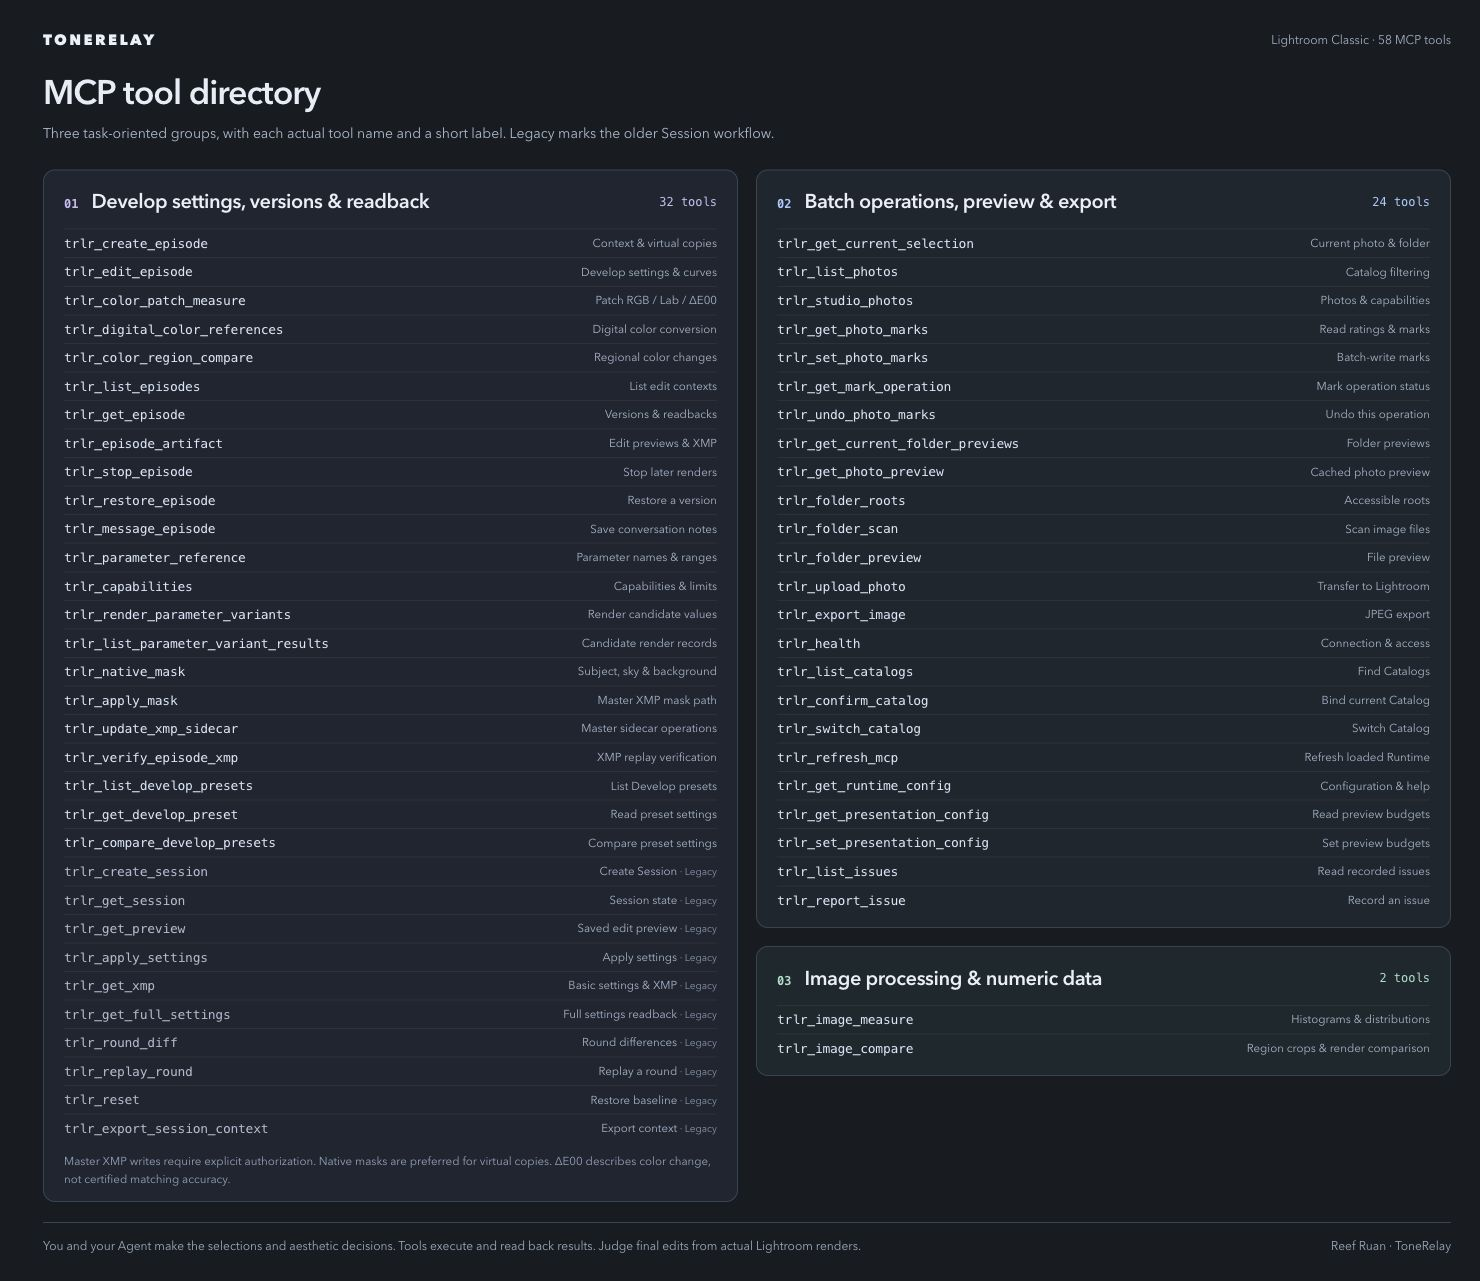
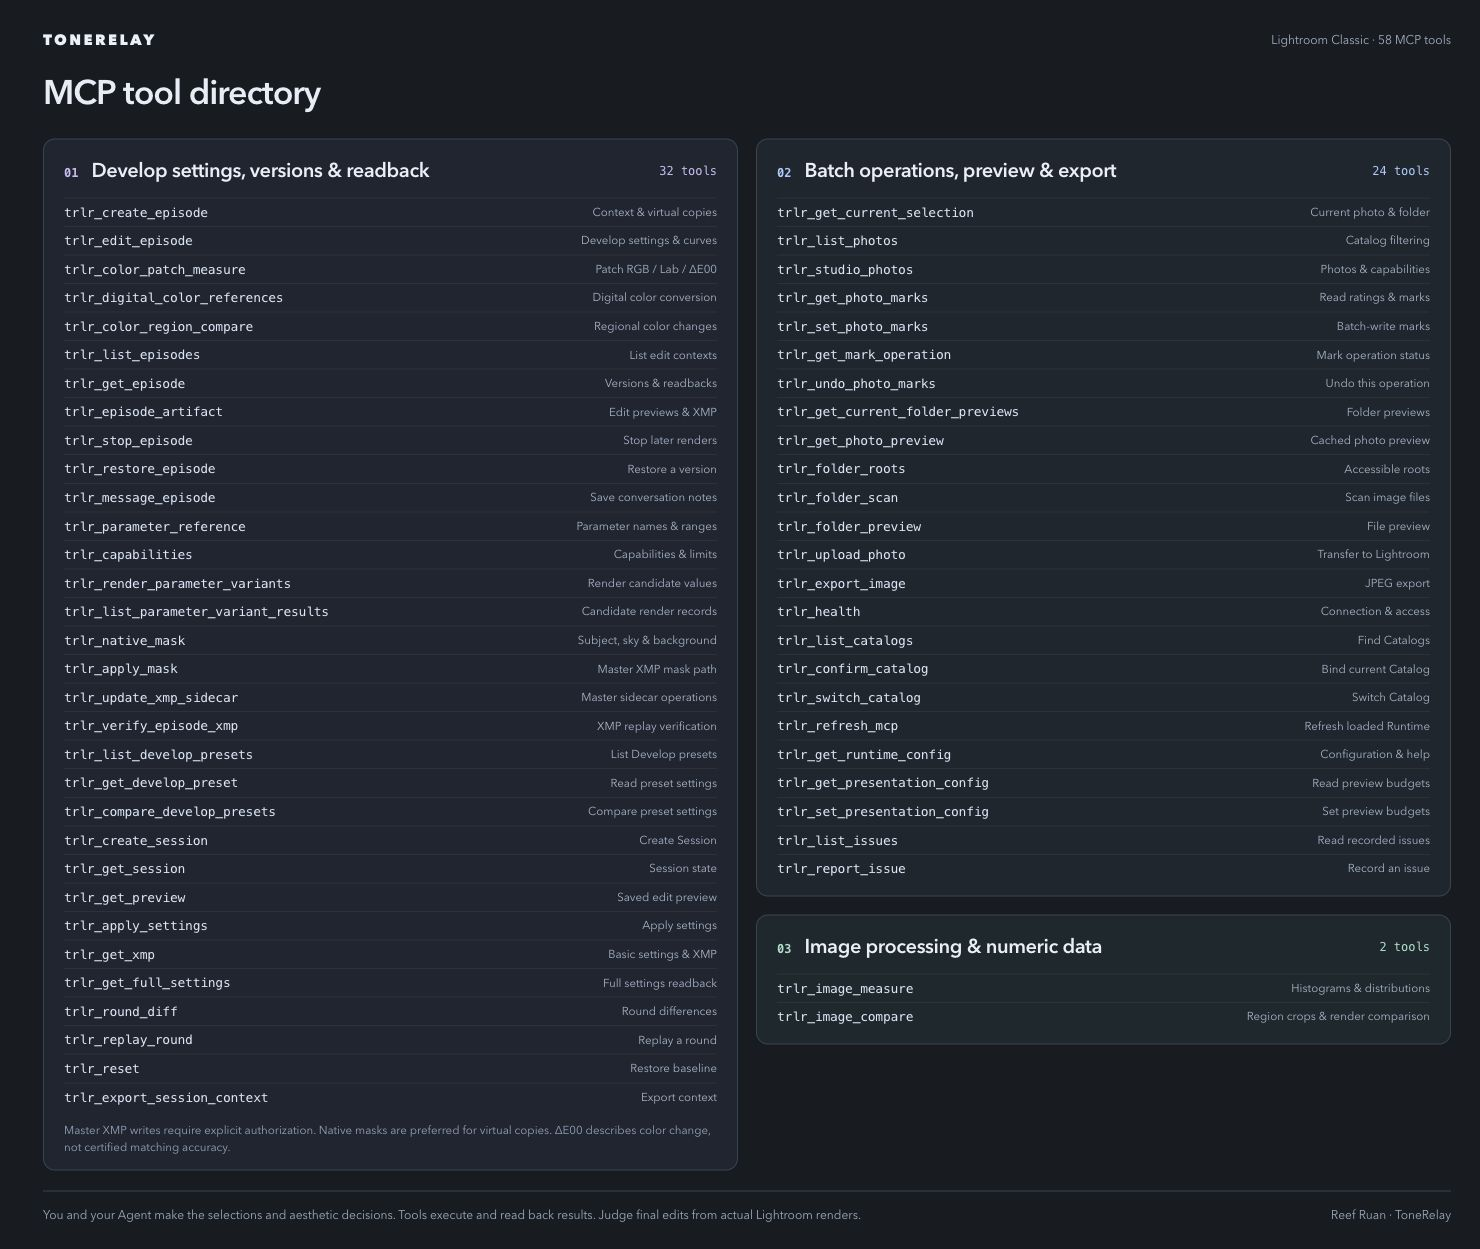
fix: remove internal version labels from the tool overview

diff --git a/src/McpToolsOverview.tsx b/src/McpToolsOverview.tsx
@@ -6,7 +6,7 @@ import overviewEnglish from "../docs/assets/mcp-tools-overview/tools-list.en.htm
 import { useLanguage } from "./i18n";
 import "./mcp-tools-overview.css";
 
-type Tool = { name: string; description: string; legacy: boolean };
+type Tool = { name: string; description: string };
 type ToolGroup = { id: string; number: string; title: string; tools: Tool[]; note?: string };
 
 const plainText = (html: string) => html.replace(/<[^>]*>/g, "").replace(/&(amp|lt|gt|quot|#39);/g, (_, entity: string) => ({
@@ -23,34 +23,32 @@ function readOverview(html: string) {
     if (!title || !number) throw new Error("An MCP tool group is missing its heading");
     return {
       id: match[1], number, title: plainText(title),
-      tools: Array.from(section.matchAll(/<li([^>]*)><code>(trlr_\w+)<\/code><span>([\s\S]*?)<\/span><\/li>/g), (tool) => ({
-        name: tool[2], description: plainText(tool[3]), legacy: /class="legacy"/.test(tool[1]),
+      tools: Array.from(section.matchAll(/<li[^>]*><code>(trlr_\w+)<\/code><span>([\s\S]*?)<\/span><\/li>/g), (tool) => ({
+        name: tool[1], description: plainText(tool[2]),
       })),
       note: section.match(/class="group-note">([^<]+)</)?.[1],
     };
   });
-  const intro = html.match(/class="intro">([^<]+)</)?.[1];
   const count = groups.reduce((sum, group) => sum + group.tools.length, 0);
   const expectedCount = Number(html.match(/Lightroom Classic · (\d+) MCP tools/)?.[1]);
-  if (!intro || groups.map(group => group.id).join() !== "develop,catalog,image" || count !== expectedCount
+  if (groups.map(group => group.id).join() !== "develop,catalog,image" || count !== expectedCount
     || new Set(groups.flatMap(group => group.tools.map(tool => tool.name))).size !== count) {
     throw new Error("The approved MCP tool directory has incomplete or duplicate entries");
   }
-  return { groups, intro: plainText(intro), count };
+  return { groups, count };
 }
 
 export const toolOverviewByLanguage = { zh: readOverview(overviewChinese), en: readOverview(overviewEnglish) };
 
 function Group({ group }: { group: ToolGroup }) {
-  const { t } = useLanguage();
   return <section className={`mcp-tools-group mcp-tools-${group.id}`} aria-labelledby={`mcp-tools-${group.id}-title`}>
     <header className="mcp-tools-group-heading">
       <div><span className="mcp-tools-number">{group.number}</span><h3 id={`mcp-tools-${group.id}-title`}>{group.title}</h3></div>
       <span className="mcp-tools-count">{group.tools.length} tools</span>
     </header>
     <ul className="mcp-tools-list">
-      {group.tools.map(tool => <li key={tool.name} className={tool.legacy ? "is-legacy" : undefined}>
-        <code>{tool.name}</code><span>{tool.description}{tool.legacy && <small>{t(" · 兼容", " · Legacy")}</small>}</span>
+      {group.tools.map(tool => <li key={tool.name}>
+        <code>{tool.name}</code><span>{tool.description}</span>
       </li>)}
     </ul>
     {group.note && <p className="mcp-tools-note">{plainText(group.note)}</p>}
@@ -67,7 +65,6 @@ export function McpToolsOverview() {
     </summary>
     <div className="mcp-tool-directory">
       <div className="mcp-tools-meta"><strong>TONERELAY</strong><span>Lightroom Classic · {overview.count} MCP tools</span></div>
-      <p className="mcp-tools-intro">{overview.intro}</p>
       <div className="mcp-tools-layout">
         <Group group={overview.groups[0]} />
         <div className="mcp-tools-secondary"><Group group={overview.groups[1]} /><Group group={overview.groups[2]} /></div>

diff --git a/docs/assets/mcp-tools-overview/tools-list.zh.html b/docs/assets/mcp-tools-overview/tools-list.zh.html
@@ -11,7 +11,6 @@
 <main class="tool-directory">
   <header class="masthead"><strong class="brand">TONERELAY</strong><span class="meta">Lightroom Classic · 58 MCP tools</span></header>
   <h1>MCP 工具一览</h1>
-  <p class="intro">按使用场景分为三组。直接列出工具名称，旁边是简短用途；标注「兼容」的是旧 Session 工作流。</p>
   <div class="inventory-layout">
   <section class="tool-group develop" aria-labelledby="develop-title">
     <header class="group-heading"><div class="group-title"><span class="group-number">01</span><h2 id="develop-title">修图参数、版本与回读</h2></div><span class="group-count">32 tools</span></header>
@@ -38,16 +37,16 @@
       <li><code>trlr_list_develop_presets</code><span>列出显影预设</span></li>
       <li><code>trlr_get_develop_preset</code><span>读取预设参数</span></li>
       <li><code>trlr_compare_develop_presets</code><span>比较预设参数</span></li>
-      <li class="legacy"><code>trlr_create_session</code><span>创建会话</span></li>
-      <li class="legacy"><code>trlr_get_session</code><span>读取会话状态</span></li>
-      <li class="legacy"><code>trlr_get_preview</code><span>读取已存编辑预览</span></li>
-      <li class="legacy"><code>trlr_apply_settings</code><span>应用显影设置</span></li>
-      <li class="legacy"><code>trlr_get_xmp</code><span>基础参数与 XMP</span></li>
-      <li class="legacy"><code>trlr_get_full_settings</code><span>完整显影回读</span></li>
-      <li class="legacy"><code>trlr_round_diff</code><span>轮次参数与图像差异</span></li>
-      <li class="legacy"><code>trlr_replay_round</code><span>回放一轮设置</span></li>
-      <li class="legacy"><code>trlr_reset</code><span>恢复会话基线</span></li>
-      <li class="legacy"><code>trlr_export_session_context</code><span>导出会话上下文</span></li>
+      <li><code>trlr_create_session</code><span>创建会话</span></li>
+      <li><code>trlr_get_session</code><span>读取会话状态</span></li>
+      <li><code>trlr_get_preview</code><span>读取已存编辑预览</span></li>
+      <li><code>trlr_apply_settings</code><span>应用显影设置</span></li>
+      <li><code>trlr_get_xmp</code><span>基础参数与 XMP</span></li>
+      <li><code>trlr_get_full_settings</code><span>完整显影回读</span></li>
+      <li><code>trlr_round_diff</code><span>轮次参数与图像差异</span></li>
+      <li><code>trlr_replay_round</code><span>回放一轮设置</span></li>
+      <li><code>trlr_reset</code><span>恢复会话基线</span></li>
+      <li><code>trlr_export_session_context</code><span>导出会话上下文</span></li>
     </ul>
     <p class="group-note">XMP 原片写入需明确授权；原生蒙版是虚拟副本的优先路径。ΔE00 用于观察颜色变化，不代表仿色精度认证。</p>
   </section>

diff --git a/docs/assets/mcp-tools-overview/tools-list.en.html b/docs/assets/mcp-tools-overview/tools-list.en.html
@@ -11,7 +11,6 @@
 <main class="tool-directory">
   <header class="masthead"><strong class="brand">TONERELAY</strong><span class="meta">Lightroom Classic · 58 MCP tools</span></header>
   <h1>MCP tool directory</h1>
-  <p class="intro">Three task-oriented groups, with each actual tool name and a short label. Legacy marks the older Session workflow.</p>
   <div class="inventory-layout">
   <section class="tool-group develop" aria-labelledby="develop-title">
     <header class="group-heading"><div class="group-title"><span class="group-number">01</span><h2 id="develop-title">Develop settings, versions &amp; readback</h2></div><span class="group-count">32 tools</span></header>
@@ -38,16 +37,16 @@
       <li><code>trlr_list_develop_presets</code><span>List Develop presets</span></li>
       <li><code>trlr_get_develop_preset</code><span>Read preset settings</span></li>
       <li><code>trlr_compare_develop_presets</code><span>Compare preset settings</span></li>
-      <li class="legacy"><code>trlr_create_session</code><span>Create Session</span></li>
-      <li class="legacy"><code>trlr_get_session</code><span>Session state</span></li>
-      <li class="legacy"><code>trlr_get_preview</code><span>Saved edit preview</span></li>
-      <li class="legacy"><code>trlr_apply_settings</code><span>Apply settings</span></li>
-      <li class="legacy"><code>trlr_get_xmp</code><span>Basic settings &amp; XMP</span></li>
-      <li class="legacy"><code>trlr_get_full_settings</code><span>Full settings readback</span></li>
-      <li class="legacy"><code>trlr_round_diff</code><span>Round differences</span></li>
-      <li class="legacy"><code>trlr_replay_round</code><span>Replay a round</span></li>
-      <li class="legacy"><code>trlr_reset</code><span>Restore baseline</span></li>
-      <li class="legacy"><code>trlr_export_session_context</code><span>Export context</span></li>
+      <li><code>trlr_create_session</code><span>Create Session</span></li>
+      <li><code>trlr_get_session</code><span>Session state</span></li>
+      <li><code>trlr_get_preview</code><span>Saved edit preview</span></li>
+      <li><code>trlr_apply_settings</code><span>Apply settings</span></li>
+      <li><code>trlr_get_xmp</code><span>Basic settings &amp; XMP</span></li>
+      <li><code>trlr_get_full_settings</code><span>Full settings readback</span></li>
+      <li><code>trlr_round_diff</code><span>Round differences</span></li>
+      <li><code>trlr_replay_round</code><span>Replay a round</span></li>
+      <li><code>trlr_reset</code><span>Restore baseline</span></li>
+      <li><code>trlr_export_session_context</code><span>Export context</span></li>
     </ul>
     <p class="group-note">Master XMP writes require explicit authorization. Native masks are preferred for virtual copies. ΔE00 describes color change, not certified matching accuracy.</p>
   </section>

diff --git a/docs/assets/mcp-tools-overview/tools-list.css b/docs/assets/mcp-tools-overview/tools-list.css
@@ -14,8 +14,7 @@ body { margin: 0; }
 .masthead { display: flex; justify-content: space-between; align-items: center; gap: 20px; }
 .brand { color: #eaf1fa; font-size: 15px; font-weight: 760; letter-spacing: .16em; }
 .meta { color: #a1b1c5; font-size: 12px; }
-h1 { margin: 22px 0 9px; font-size: 34px; line-height: 1.2; font-weight: 600; letter-spacing: -.03em; }
-.intro { margin: 0 0 25px; color: #aabbce; font-size: 14px; line-height: 1.6; }
+h1 { margin: 22px 0 25px; font-size: 34px; line-height: 1.2; font-weight: 600; letter-spacing: -.03em; }
 .inventory-layout { display: grid; grid-template-columns: repeat(2, minmax(0, 1fr)); gap: 18px; align-items: start; }
 .secondary-column { display: grid; gap: 18px; min-width: 0; align-content: start; }
 .tool-group { --accent: #aacaff; min-width: 0; padding: 18px 20px 13px; border: 1px solid #344252; border-radius: 12px; background: #17212b; }
@@ -30,9 +29,6 @@ h2 { margin: 0; color: #eaf0f8; font-size: 20px; line-height: 1.35; font-weight:
 .tool-list li { min-width: 0; min-height: 28px; padding: 5px 0; display: flex; align-items: center; justify-content: space-between; gap: 10px; border-top: 1px solid #8a9eb21a; }
 .tool-list code { min-width: 0; color: #dce7f8; font: 13px/1.35 "SFMono-Regular", Menlo, Consolas, monospace; letter-spacing: -.02em; overflow-wrap: anywhere; }
 .tool-list span { color: #a4b5c9; font-size: 12px; line-height: 1.4; text-align: right; white-space: nowrap; }
-.tool-list li.legacy code { color: #b2bdd0; }
-.tool-list li.legacy span::after { content: " · 兼容"; color: #8596ad; font-size: 10px; }
-html[lang="en"] .tool-list li.legacy span::after { content: " · Legacy"; }
 html[lang="en"] .tool-list span { font-size: 11.5px; }
 .group-note { margin: 10px 0 0; color: #8fa3bb; font-size: 11.5px; line-height: 1.55; }
 .footer { display: flex; justify-content: space-between; gap: 20px; margin-top: 20px; border-top: 1px solid #334250; padding-top: 14px; color: #9bacc1; font-size: 12px; line-height: 1.6; }

diff --git a/src/mcp-tools-overview.css b/src/mcp-tools-overview.css
@@ -8,10 +8,9 @@
 .workflow-tools-toggle svg { width: 16px; height: 16px; transition: transform 140ms ease; }
 .workflow-tools-overview[open] > .workflow-tools-toggle svg { transform: rotate(180deg); }
 .mcp-tool-directory { margin-top: 20px; padding: 24px; border: 1px solid #344252; border-radius: 16px; background: #10151cf0; color: #e8edf5; font-family: var(--tools-font); }
-.mcp-tools-meta { display: flex; justify-content: space-between; align-items: center; gap: 20px; }
+.mcp-tools-meta { display: flex; justify-content: space-between; align-items: center; gap: 20px; margin-bottom: 20px; }
 .mcp-tools-meta strong { color: #eaf1fa; font-size: 13px; letter-spacing: .16em; }
 .mcp-tools-meta > span { color: #a1b1c5; font-size: 12px; }
-.mcp-tools-intro { margin: 14px 0 20px; color: #aabbce; font-size: 13px; line-height: 1.6; }
 .mcp-tools-layout { display: grid; grid-template-columns: repeat(2, minmax(0, 1fr)); gap: 18px; align-items: start; }
 .mcp-tools-secondary { display: grid; gap: 18px; min-width: 0; align-content: start; }
 .mcp-tools-group { --tools-accent: #aacaff; min-width: 0; padding: 18px 20px 13px; border: 1px solid #344252; border-radius: 12px; background: #17212b; }
@@ -26,8 +25,6 @@
 .mcp-tools-list li { min-width: 0; min-height: 28px; padding: 5px 0; display: flex; align-items: center; justify-content: space-between; gap: 10px; border-top: 1px solid #8a9eb21a; }
 .mcp-tools-list code { min-width: 0; color: #dce7f8; font: 13px/1.35 var(--mono); letter-spacing: -.02em; overflow-wrap: anywhere; }
 .mcp-tools-list li > span { color: #a4b5c9; font-size: 12px; line-height: 1.4; text-align: right; white-space: nowrap; }
-.mcp-tools-list .is-legacy code { color: #b2bdd0; }
-.mcp-tools-list small { color: #8596ad; font-size: 10px; }
 html[lang="en"] .mcp-tools-list li > span { font-size: 11.5px; }
 .mcp-tools-note { margin: 10px 0 0; color: #8fa3bb; font-size: 11.5px; line-height: 1.55; }
 @media (max-width: 1180px) {

diff --git a/src/McpToolsOverview.test.tsx b/src/McpToolsOverview.test.tsx
@@ -26,5 +26,8 @@ describe("inline MCP tool directory", () => {
     expect(html).not.toMatch(/<iframe|<img|href=|target=/);
     expect(html).toContain('aria-labelledby="mcp-tools-develop-title"');
     expect(html).toContain('<h3 id="mcp-tools-develop-title">修图参数、版本与回读</h3>');
+    expect(html).not.toContain("按使用场景分为三组");
+    expect(html).not.toContain("mcp-tools-intro");
+    expect(html).not.toMatch(/旧版接口|兼容|Legacy|is-legacy|<small/);
   });
 });

diff --git a/docs/assets/mcp-tools-overview/README.md b/docs/assets/mcp-tools-overview/README.md
@@ -6,11 +6,11 @@
 
 已按下方公开源码中的 `TOOLS` 注册项逐项核对，共 58 个唯一工具，无遗漏或重复：
 
-1. 修图参数、版本与回读：32 个，包含虚拟副本、编辑上下文、编辑版本预览、状态、显影参数、蒙版、XMP 读取/验证、预设、RGB / Lab / ΔE00，以及旧 Session 工具。`trlr_create_episode` 紧接 01 标题，作为这一组第一项。
+1. 修图参数、版本与回读：32 个，包含虚拟副本、编辑上下文、编辑版本预览、状态、显影参数、蒙版、XMP 读取/验证、预设、RGB / Lab / ΔE00，以及会话工具。`trlr_create_episode` 紧接 01 标题，作为这一组第一项。
 2. 批量操作、预览与导出：24 个，包含目录、标记、Catalog 缓存与文件预览、JPEG 导出、连接及运行配置。
 3. 图片处理与数值化：2 个，分别是 `trlr_image_measure`、`trlr_image_compare`；区域裁切、直方图和明暗统计是工具的能力，不伪造为新的 tool 名称。
 
-标注「兼容 / Legacy」的项目仍是已注册工具，只是属于旧 Session 工作流。分类是展示用途，不声称等于源码模块结构。名单随本次公开源码快照核验，工具注册变化后需重新核对数量与名称。
+面向首次接触项目的用户，只展示当前注册的工具名称与用途，不展示内部迁移、兼容或版本历史标签，也不把部分工具变灰。页面不放分组说明小字。分类是展示用途，不声称等于源码模块结构。名单随本次公开源码快照核验，工具注册变化后需重新核对数量与名称。
 
 已接入 Portal「试着这样说」之后、「02 批量操作」编号之前，按钮名为「MCP 工具一览」，单独居中。默认展开，点击可收起或再次展开两列文字列表，不打开独立页面。组件直接解析本目录已确认的中英文 HTML，复用工具名与文案，不维护第二份名单。HTML 继续用作本地审核稿与截图真源，不再单独发布网页路由。
 

diff --git a/docs/assets/mcp-tools-overview/tools-list.en.md b/docs/assets/mcp-tools-overview/tools-list.en.md
@@ -2,8 +2,6 @@
 
 <!-- Generated from tools-list.en.html; edit that HTML, then run export-markdown.mjs. -->
 
-Three task-oriented groups, with each actual tool name and a short label. Legacy marks the older Session workflow.
-
 ## Develop settings, versions & readback · 32
 
 | Tool | Purpose |
@@ -30,16 +28,16 @@ Three task-oriented groups, with each actual tool name and a short label. Legacy
 | `trlr_list_develop_presets` | List Develop presets |
 | `trlr_get_develop_preset` | Read preset settings |
 | `trlr_compare_develop_presets` | Compare preset settings |
-| `trlr_create_session` | Create Session · Legacy |
-| `trlr_get_session` | Session state · Legacy |
-| `trlr_get_preview` | Saved edit preview · Legacy |
-| `trlr_apply_settings` | Apply settings · Legacy |
-| `trlr_get_xmp` | Basic settings & XMP · Legacy |
-| `trlr_get_full_settings` | Full settings readback · Legacy |
-| `trlr_round_diff` | Round differences · Legacy |
-| `trlr_replay_round` | Replay a round · Legacy |
-| `trlr_reset` | Restore baseline · Legacy |
-| `trlr_export_session_context` | Export context · Legacy |
+| `trlr_create_session` | Create Session |
+| `trlr_get_session` | Session state |
+| `trlr_get_preview` | Saved edit preview |
+| `trlr_apply_settings` | Apply settings |
+| `trlr_get_xmp` | Basic settings & XMP |
+| `trlr_get_full_settings` | Full settings readback |
+| `trlr_round_diff` | Round differences |
+| `trlr_replay_round` | Replay a round |
+| `trlr_reset` | Restore baseline |
+| `trlr_export_session_context` | Export context |
 
 Master XMP writes require explicit authorization. Native masks are preferred for virtual copies. ΔE00 describes color change, not certified matching accuracy.
 

diff --git a/docs/assets/mcp-tools-overview/tools-list.zh.md b/docs/assets/mcp-tools-overview/tools-list.zh.md
@@ -2,8 +2,6 @@
 
 <!-- Generated from tools-list.zh.html; edit that HTML, then run export-markdown.mjs. -->
 
-按使用场景分为三组。直接列出工具名称，旁边是简短用途；标注「兼容」的是旧 Session 工作流。
-
 ## 修图参数、版本与回读 · 32
 
 | Tool | 用途 |
@@ -30,16 +28,16 @@
 | `trlr_list_develop_presets` | 列出显影预设 |
 | `trlr_get_develop_preset` | 读取预设参数 |
 | `trlr_compare_develop_presets` | 比较预设参数 |
-| `trlr_create_session` | 创建会话 · 兼容 |
-| `trlr_get_session` | 读取会话状态 · 兼容 |
-| `trlr_get_preview` | 读取已存编辑预览 · 兼容 |
-| `trlr_apply_settings` | 应用显影设置 · 兼容 |
-| `trlr_get_xmp` | 基础参数与 XMP · 兼容 |
-| `trlr_get_full_settings` | 完整显影回读 · 兼容 |
-| `trlr_round_diff` | 轮次参数与图像差异 · 兼容 |
-| `trlr_replay_round` | 回放一轮设置 · 兼容 |
-| `trlr_reset` | 恢复会话基线 · 兼容 |
-| `trlr_export_session_context` | 导出会话上下文 · 兼容 |
+| `trlr_create_session` | 创建会话 |
+| `trlr_get_session` | 读取会话状态 |
+| `trlr_get_preview` | 读取已存编辑预览 |
+| `trlr_apply_settings` | 应用显影设置 |
+| `trlr_get_xmp` | 基础参数与 XMP |
+| `trlr_get_full_settings` | 完整显影回读 |
+| `trlr_round_diff` | 轮次参数与图像差异 |
+| `trlr_replay_round` | 回放一轮设置 |
+| `trlr_reset` | 恢复会话基线 |
+| `trlr_export_session_context` | 导出会话上下文 |
 
 XMP 原片写入需明确授权；原生蒙版是虚拟副本的优先路径。ΔE00 用于观察颜色变化，不代表仿色精度认证。
 

diff --git a/docs/experience-page-design-prompt.md b/docs/experience-page-design-prompt.md
@@ -35,6 +35,7 @@ MCP 和工具的能力说明单独维护在 [`mcp-tools-overview.md`](mcp-tools-
 - 蓝色留给全页导航、工具能力和安装主动作；工作流卡片的浅绿色只表达案例内部的结果与轻操作，不把每个动作都做成蓝色主按钮。
 - 复制提问是“读完说明后试一试”的次级动作：紧贴说明句，保留清晰可见的下划线与键盘焦点，但视觉重量低于标题和截图。详细提示词不直接铺在卡片里。
 - 「试着这样说」之后、「02 批量操作」编号之前，独立放置「MCP 工具一览」展开区，开合按钮居中。默认展开，点击可收起或再次展开完整的两列文字列表；不跳转页面、不开弹窗或嵌套滚动区。名单与文案复用 `docs/assets/mcp-tools-overview/` 中已确认的中英文 HTML，不维护第二份名单。01 组在创建编辑上下文后，先列显影参数与曲线，再列 RGB / Lab / ΔE00、数字色值转换和区域色彩变化工具。
+- 工具一览只展示当前注册的工具名称和用途，不放分组说明小字，不显示兼容、旧版或内部迁移标签，不因内部工作流差异将部分工具变灰。
 - 安装与 Star 已有固定入口，不再用自动提示气泡遮盖导航和案例内容。
 
 实际字体、颜色变量与网格背景在 `src/styles.css` 的 `:root` 和页面背景规则中；体验页入口条、标题及卡片样式也在同一文件。本文描述意图，代码中的样式才是当前页面的真实效果。
